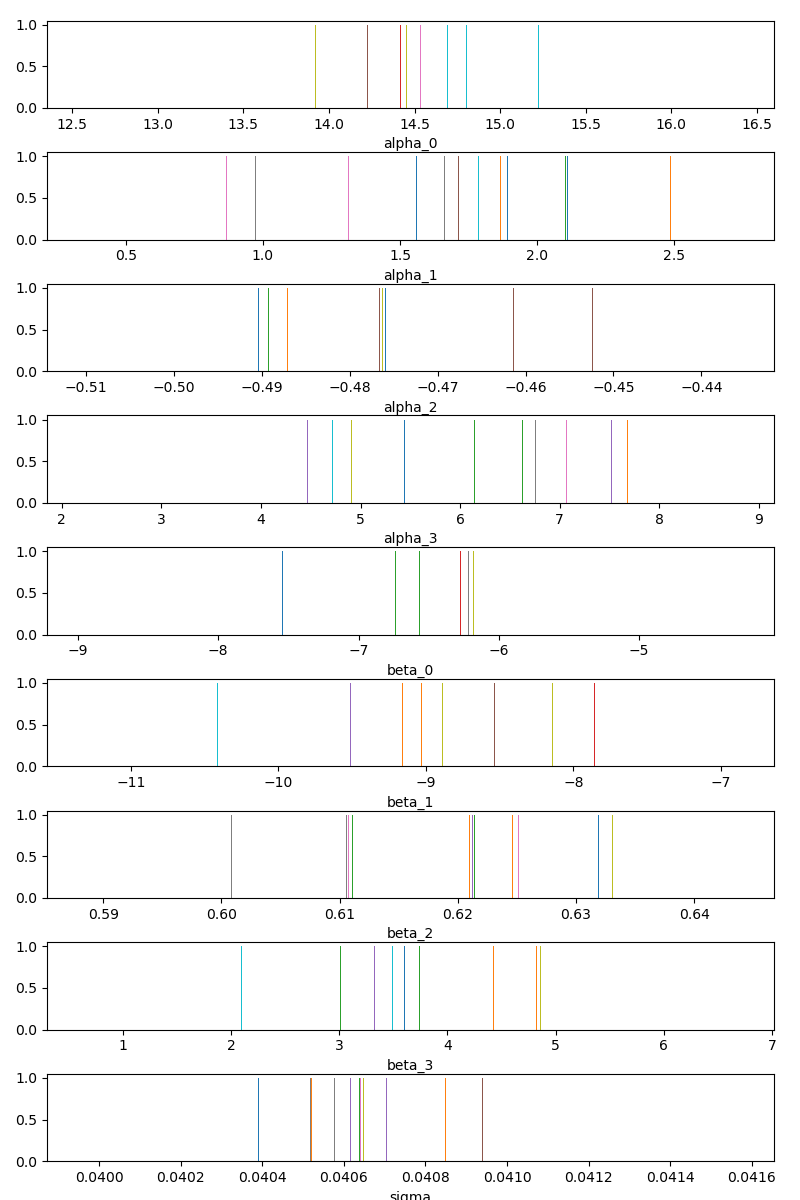
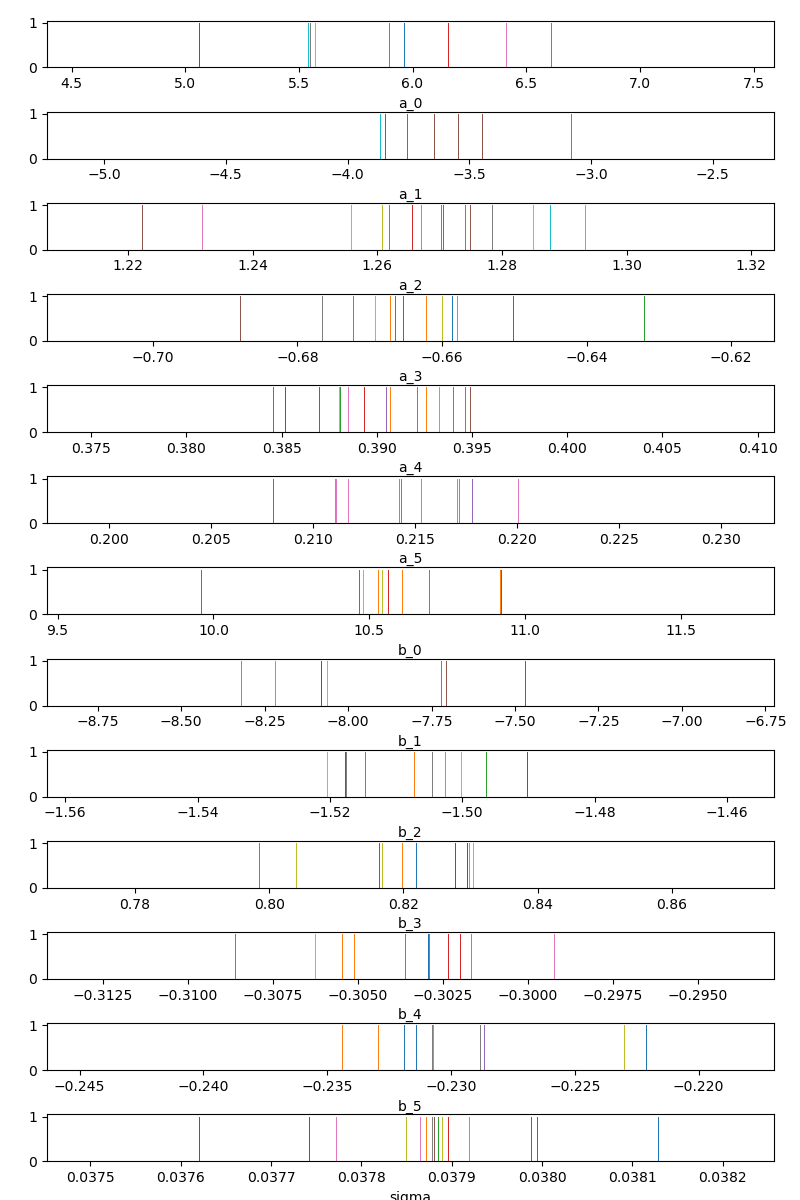
Fixed ordering issues with stan code

diff --git a/bayes.py b/bayes.py
@@ -13,7 +13,8 @@ from sklearn.metrics import mean_squared_error
 from sklearn.metrics import mean_absolute_percentage_error
 from common import generate_posterior_histograms, generate_traceplots
 
-MODEL_ID = 2
+MODEL_ID = 2 
+USE_CACHE = False
 
 
 def create_summary_dfs(data):
@@ -62,7 +63,7 @@ def get_pred(num_cycles, params, model_id, scale=1000):
     return y_pred
 
 
-def get_rul(threshold, params, model_id):
+def get_rul(threshold, params, model_id, scale=1000):
     """Helper function to access prediction for remianing useful life"""
     # cycle_life = int(data['cycle_life'][0]) - 2
     # nominal = data['summary']['QD'][1]
@@ -70,8 +71,9 @@ def get_rul(threshold, params, model_id):
     count = 0
     while y_val > threshold:
         count += 1
-        y_val = fetch_model(count, params, model_id)
-    y_pred = count
+        scaled_x = count / scale
+        y_val = fetch_model(scaled_x, params, model_id)
+    y_pred = count / scale
 
     return y_pred
 
@@ -93,26 +95,26 @@ def evaluate_fit(y_test, params, model_id, start_idx=100, scale=1000):
     return mse_store, rul_mape_store
 
 
-def plot_examples(data, ex_list, params, model_id, scale=1000):
+def plot_examples(y_test, test_bat_ids, params, model_id, num_plots=5, scale=1000):
     """Plot y_true vs y_pred for specified alpha, beta, gamma"""
-    i = 0
-    for bc in data.keys():
-        if bc in ex_list:
-            y_test_i = data[bc]['summary']['QD'][1:].copy()
-            cycle_life = len(y_test_i)  # y_test_i[-1]
-            params_i = [params[0][i], params[1][i], params[2][i]]
+    for i, id in enumerate(test_bat_ids):
+        if i >= num_plots:
+            break
 
-            y_pred, y_true = get_pred(cycle_life, params_i, model_id), y_test_i
-            x = np.linspace(0, cycle_life, cycle_life) / scale
+        y_test_i = y_test[i]
+        cycle_life = len(y_test_i)  # y_test_i[-1]
+        params_i = [params[0][i], params[1][i], params[2][i]]
 
-            plt.scatter(x, y_true, color='grey')
-            plt.plot(x, y_pred, color='r')
-            plt.ylim((0.8, 1.2))
+        y_pred, y_true = get_pred(cycle_life, params_i, model_id), y_test_i
+        x = np.linspace(0, cycle_life, cycle_life) / scale
 
-            outfile = 'bayes_plot_' + bc + '.png'
-            plt.savefig(os.path.join('figs', outfile))
-            plt.show(); plt.close()
-        i += 1
+        plt.scatter(x, y_true, color='grey')
+        plt.plot(x, y_pred, color='r')
+        plt.ylim((0.8, 1.2))
+
+        outfile = 'bayes_plot_' + id + '.png'
+        plt.savefig(os.path.join('figs', outfile))
+        plt.show(); plt.close()
 
 
 def create_features(train_data):
@@ -120,12 +122,7 @@ def create_features(train_data):
     X_df = train_data.groupby(['bat_id']).last().reset_index(drop=True)
     X_df.columns = X_df.columns.str.lower()
 
-    # for df in dfs:
-    #     x1_nominal_capacity.append(df.loc[1,'QD'])
-    #     x2_average_temperature.append(df.loc[1,'Tavg'])
-    #     x3_qd_pct_change_first100.append((df.loc[100,'QD']-df.loc[1,'QD'])/df.loc[1,'QD'])
-
-    x1_nominal_capacity = train_data.groupby(['bat_id']).nth(1)['QD']
+    x1_nominal_capacity = train_data.groupby(['bat_id']).nth(5)['QD']
     x2_variance_100v10 = X_df['variance'].copy()
     x3_log_min_difference = X_df['log|min(delta(q(v)))|'].copy()
     x4_chargetime_average = X_df['chargetimeavg cyc1-5'].copy()
@@ -207,9 +204,9 @@ def prepare_code_for_stan():
         real scaled_cycle_count;
 
         for(i in 1:N) {
-            alpha[i] = a_0 + a_1*X[i,1] + a_2*X[i,2] + a_3*X[i,3] + a_4*X[i,4];
-            beta[i] = b_0 + b_1*X[i,1] + b_2*X[i,2] + b_3*X[i,3] + b_4*X[i,4];
-            gamma[i] = X[i,1];
+            alpha[i] = a_0 + a_1*X[i,1] + a_2*X[i,2] + a_3*X[i,3] + a_4*X[i,4] + a_5*X[i,5];
+            beta[i] = b_0 + b_1*X[i,1] + b_2*X[i,2] + b_3*X[i,3] + b_4*X[i,4] + b_5*X[i,5];
+            gamma[i] = X[i,1];  // first few entries have measurment error
 
             for (j in 1:N_BC[i]) {
                 scaled_cycle_count = j / 1000.0;
@@ -222,10 +219,18 @@ def prepare_code_for_stan():
     }
     model {
         a_0 ~ normal(2.5, 1);
-        a_1, a_2, a_3, a_4 ~ normal(0, 1);
+        a_1 ~ normal(0, 1);
+        a_2 ~ normal(0, 1);
+        a_3 ~ normal(0, 1);
+        a_4 ~ normal(0, 1);
+        a_5 ~ normal(0, 1);
 
         b_0 ~ normal(2.5, 1);
-        b_1, b_2, b_3, b_4 ~ normal(0, 1);
+        b_1 ~ normal(0, 1);
+        b_2 ~ normal(0, 1);
+        b_3 ~ normal(0, 1);
+        b_4 ~ normal(0, 1);
+        b_5 ~ normal(0, 1);
 
         //g_0 ~ normal(1.1, 1);
         //g_1 ~ normal(0, 1);
@@ -293,17 +298,15 @@ def prepare_params_given_samples(fit, X):
 
 def prepare_label_data(data_dict, train_ids, test_ids):
     """Helper function to prepare labels for train and test"""
-    train_y, test_y = [], []
-    for bc in data_dict:
+    train_y = []
+    for id in train_ids:
+        train_y.append(data_dict[id]['summary']['QD'][1:])
 
-        if bc in train_ids:
-            train_y.append(data_dict[bc]['summary']['QD'][1:])
+    test_y = []
+    for id in test_ids:
+        test_y.append(data_dict[id]['summary']['QD'][1:])
 
-        elif bc in test_ids:
-            test_y.append(data_dict[bc]['summary']['QD'][1:])
-
-        else:
-            print("Error: we are missing some battery ids!")
+    # print("Error: we are missing some battery ids!")
 
     return train_y, test_y
 
@@ -316,19 +319,24 @@ if __name__ == '__main__':
     train_dat = pd.read_csv(os.path.join('data', 'train.csv'))
     test_dat = pd.read_csv(os.path.join('data', 'test.csv'))
 
-    train_bat_ids = np.array(train_dat['bat_id'].drop_duplicates())
-    test_bat_ids = np.array(test_dat['bat_id'].drop_duplicates())
+    train_bat_ids = sorted(train_dat['bat_id'].unique())
+    test_bat_ids = sorted(test_dat['bat_id'].unique())
     y_train, y_test = prepare_label_data(data, train_bat_ids, test_bat_ids)
 
     # bayes model
-    # print(test_script_for_stan())
-    stan_code = prepare_code_for_stan()
-    X_train = create_features(train_dat)
-    stan_data = prepare_data_for_stan(X_train, y_train)
-    posterior = stan.build(stan_code, data=stan_data, random_seed=101)
-    fit = posterior.sample(num_samples=1000, num_chains=1)
-    save_pickle(posterior, filename='model.pkl')
-    save_pickle(fit, filename='fit.pkl')
+    if USE_CACHE:
+        # 0: dummy data, 1: misordered y-var, 2: complete version
+        fit = load_data(os.path.join('data', 'fit_2.pkl'))
+
+    else:
+        # print(test_script_for_stan())
+        stan_code = prepare_code_for_stan()
+        X_train = create_features(train_dat)
+        stan_data = prepare_data_for_stan(X_train, y_train)
+        posterior = stan.build(stan_code, data=stan_data, random_seed=101)
+        fit = posterior.sample(num_samples=1000, num_chains=1)
+        save_pickle(posterior, filename='model_2.pkl')
+        save_pickle(fit, filename='fit_2.pkl')
 
     # evaluate fit
     n = len(y_test)
@@ -338,23 +346,18 @@ if __name__ == '__main__':
     }
     X_test = create_features(test_dat)
     params = prepare_params_given_samples(fit, X_test)  # params = map[MODEL_ID]
-    mse_store, rul_mape_store = evaluate_fit(y_test, params=params, model_id=MODEL_ID)
+    # params = [fit['alpha'].mean(axis=1), fit['beta'].mean(axis=1), fit['gamma'].mean(axis=1)]
+    mse_store, rul_mape_store = evaluate_fit(y_test, params=params, model_id=MODEL_ID)  # y_test
 
     # write results
-    param_list = [
-        'alpha_0',
-        'alpha_1',
-        'alpha_2',
-        'alpha_3',
-        'beta_0',
-        'beta_1',
-        'beta_2',
-        'beta_3',
-        'sigma'
-    ]
-    generate_posterior_histograms(fit, param_list)
-    generate_traceplots(fit, param_list)
+    param_list_alpha = ['a_0', 'a_1', 'a_2', 'a_3', 'a_4', 'a_5']
+    generate_posterior_histograms(fit, param_list_alpha, prefix='bayes_alpha_')
+    generate_traceplots(fit, param_list_alpha, prefix='bayes_alpha_')
+
+    param_list_beta = ['b_0', 'b_1', 'b_2', 'b_3', 'b_4', 'b_5']
+    generate_posterior_histograms(fit, param_list_beta, prefix='bayes_beta_')
+    generate_traceplots(fit, param_list_beta, prefix='bayes_beta_')
 
     print('MSE for Discharge Capacity: {}'.format(np.mean(mse_store)))
     print('MAPE for Remaining Useful Life: {}'.format(np.mean(rul_mape_store)))
-    plot_examples(data, params=params, model_id=MODEL_ID, ex_list=['b1c0', 'b1c1'])
+    plot_examples(y_test, test_bat_ids, params=params, model_id=MODEL_ID)  # test_bat_ids

diff --git a/common.py b/common.py
@@ -27,7 +27,7 @@ def generate_posterior_histograms(fit_obj, param_list, prefix=''):
     plt.tight_layout()
 
     for j in range(n_params):
-        ax[j].hist(fit_obj[param_list[j]], bins=50)
+        ax[j].hist(fit_obj[param_list[j]].flatten().tolist(), bins=50)
         ax[j].set_xlabel(param_list[j])
     outfile = prefix + 'sampled_histogram.png'
     plt.savefig(os.path.join('figs', outfile))
